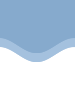
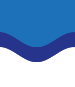
Added: custom style, some images, views: template for user section,main,login, registration

diff --git a/public/css/style.css b/public/css/style.css
@@ -12,6 +12,7 @@ body {
   margin-bottom: 120px;
 }
 
+
 .ml-negative-4 {
   margin-left: -4rem !important;
 }
@@ -25,6 +26,9 @@ body {
 .mb-negative-2 {
   margin-bottom: -2rem !important;
 }
+.mb-negative-3 {
+  margin-bottom: -3rem !important;
+}
 
 .z-indexed-3 {
   z-index: 30;
@@ -36,10 +40,21 @@ body {
   z-index: 10;
 }
 
+.b-shadow-05 {
+  box-shadow: 0 0 10px rgba(0,0,0,0.5);
+}
+.b-shadow-03 {
+  box-shadow: 0 0 8px rgba(0,0,0,0.3);
+}
+
 /*-----------------------------------------------------------IMG: TOP--------------------------------------------------------*/
 
 .icon-12{
   height: 12px;
+  width: auto;
+}
+.icon-14{
+  height: 14px;
   width: auto;
 }
 .icon-16{
@@ -211,7 +226,7 @@ a img {
   background: #fafafa;
 }
 .blue-background{
-  background: #607993;
+  background: #1d71b8;
 }
 .light-blue-background{
   background: #86aacd;
@@ -244,7 +259,7 @@ a img {
   top:2.5rem;
   height: 6px;
   width: 170px;
-  background: #607993;
+  background: #1d71b8;
 }
 
 .control-label{
@@ -276,7 +291,7 @@ a img {
 /*---------------------------------------------------------SPECIFIC: TOP---------------------------------------------------*/
 
 .wave{
-  height: 50px;
+  height: 70px;
   background:  url("/images/wave.png") top center repeat-x;
 }
 

diff --git a/resources/views/login.blade.php b/resources/views/login.blade.php
@@ -6,12 +6,12 @@
 
 <main>
   <div class='container'>
-    <div class="row my-0 mb-negative-2 mt-5">
+    <div class="row my-0 mb-negative-3 mt-5">
       <div class="col-6 offset-3 wave-2 z-indexed-3">
       </div>
     </div>
     <div class='row'>
-      <div class='col-6 offset-3 form-container light-blue-background mb-5 py-5'>
+      <div class='col-6 offset-3 form-container b-shadow-05 mb-5 py-5'>
         <div class="col-7">
           <h3 class='font-2 oswald weight-700 text-left mb-4'>Вход</h3>
         </div>
@@ -44,7 +44,6 @@
       </div>
     </div>
   </div>
-  
 </main>
 
 @endsection

diff --git a/resources/views/registration.blade.php b/resources/views/registration.blade.php
@@ -6,12 +6,12 @@
 
 <main>
   <div class='container'>
-    <div class="row my-0 mb-negative-2 mt-5">
+    <div class="row my-0 mb-negative-3 mt-5">
       <div class="col-6 offset-3 wave-2 z-indexed-3">
       </div>
     </div>
     <div class='row'>
-      <div class='col-6 offset-3 form-container light-blue-background mb-5 py-5'>
+      <div class='col-6 offset-3 form-container b-shadow-05 mb-5 py-5'>
         <div class="col-7">
           <h3 class='font-2 oswald weight-700 text-left mb-4'>Регистрация</h3>
         </div>

diff --git a/resources/views/main.blade.php b/resources/views/main.blade.php
@@ -23,7 +23,7 @@
 
   <div class="container-fluid">
     <div class="wave row my-0"></div>
-    <div class="light-blue-background row d-block my-0 pt-5 pb-1">
+    <div class="blue-background row d-block my-0 pt-5 pb-1">
       <div class="offset-2 col-7 text-right mb-3">
         <h1 class='font-light font-3 weight-800 mb-0'>Прими участие прямо сейчас </h1>
         <h4 class='font-light  font-1 weight-600 uppercase o-sans'>Пройди отборочный онлайн-тур</h4>

diff --git a/routes/web.php b/routes/web.php
@@ -15,6 +15,10 @@ Route::get('/', function () {
     return view('main');
 });
 
+Route::get('/personalArea', function () {
+    return view('personalArea');
+}); //TODO
+
 Route::fallback(function(){
     $myVar = 'Some error';
     return view('404', compact('myVar'));
@@ -23,7 +27,7 @@ Route::fallback(function(){
 Route::any('/login', 'Auth\LoginController@login');
 Route::any('/registration', function () {
     return view('registration');
-}); //TODO!
+}); //TODO
 
 Auth::routes();
 

diff --git a/resources/views/layouts/userTemplate.blade.php b/resources/views/layouts/userTemplate.blade.php
@@ -22,7 +22,7 @@
         <div class="container-fluid py-2">
           <div class='row align-items-center'>
             <div class="col-4">
-              <a href="{{ url('/') }}" class="navbar-brand">
+              <a href="#" class="navbar-brand">
                 <img class="icon-48" src="{{ asset('images/icons/sevsu_logo.png') }}" alt=" "/>
               </a>
             </div>
